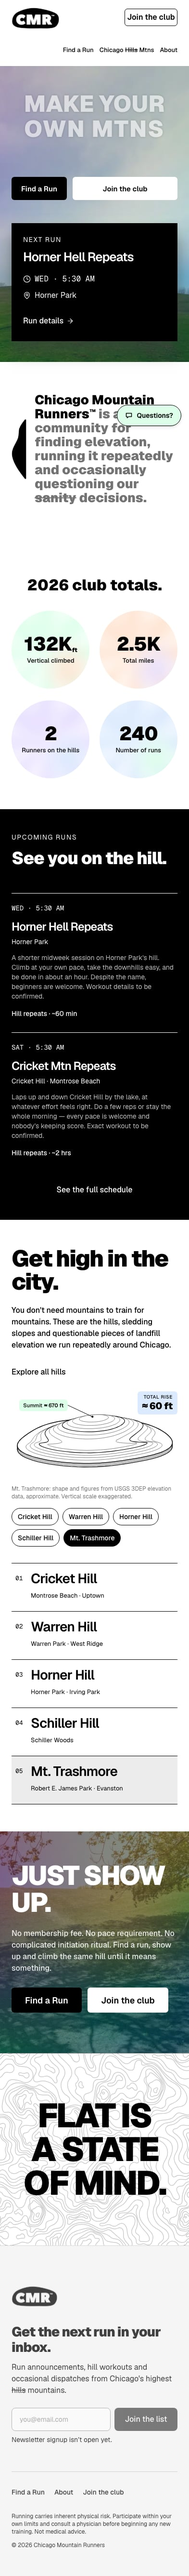
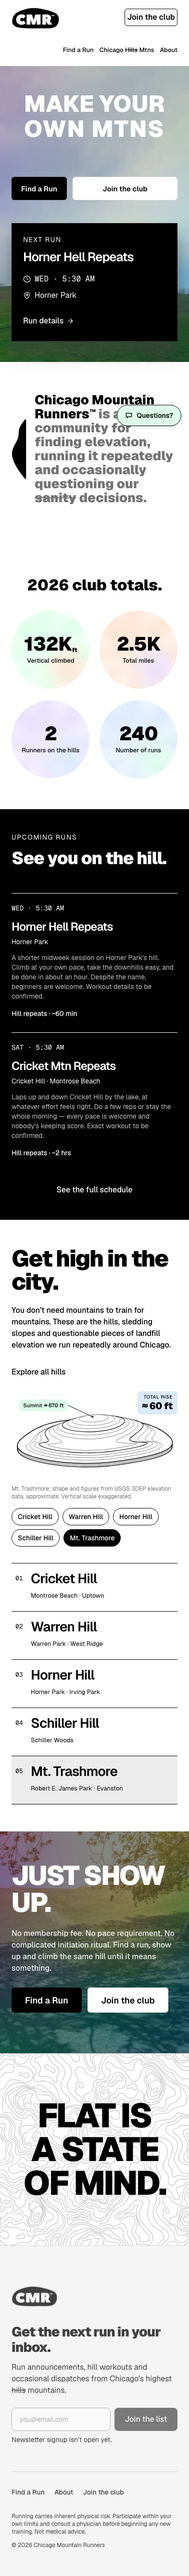
Hero headline: solid white, no halo
MAKE YOUR OWN MTNS goes from 60% white with a soft halo to 100% solid white,
matching JUST SHOW UP. Typography, position, responsive behavior and photo are
unchanged. Unit and browser tests assert the solid style; baselines, review
images and the Work Item are updated. Worst-region contrast over the pale sky
rises from 1.19-1.39:1 to 1.37-1.87:1, still below 3:1: it remains a documented
accepted exception and is not claimed to meet WCAG AA.

Changed region(s): [[0.1221, 0.0312, 0.855, 0.0625]]

diff --git a/src/components/home/HomeHero.tsx b/src/components/home/HomeHero.tsx
@@ -32,11 +32,13 @@ import { cn } from "@/lib/utils";
  *     matches line one's width on desktop).
  *
  * ACCEPTED ACCESSIBILITY EXCEPTION (Owner decision, PR #3, 2026-11-08): the
- * headline keeps Figma's ghosted 60% white, plus a soft halo. Its worst-region
- * contrast over the sky is about 1.2–1.3:1, below the 3:1 AA minimum for large
- * text. It is NOT WCAG AA compliant and is not claimed to be. A tested
- * alternative (75% over a headline band) reached ≥ 3.19:1 and is recorded in
- * .aiom/work/implement-cmr-homepage.md should the decision be revisited.
+ * headline is solid white (100%, like "JUST SHOW UP.") with no halo or shadow —
+ * Figma's ghosted 60% and the soft halo were removed in the final refinement. Its
+ * worst-region contrast over the pale sky is still below the 3:1 AA minimum for
+ * large text (see the Work Item for the measurements). It is NOT WCAG AA
+ * compliant and is not claimed to be. A tested alternative (75% over a headline
+ * band) reached ≥ 3.19:1 and is recorded in .aiom/work/implement-cmr-homepage.md
+ * should the decision be revisited.
  */
 export function HomeHero({ next, now }: { next: RunOccurrence | null; now: Date }) {
   const layout = fluidVars({
@@ -83,13 +85,7 @@ export function HomeHero({ next, now }: { next: RunOccurrence | null; now: Date 
         <h1
           id="hero-heading"
           style={heading}
-          className={cn(
-            FLUID_TYPE,
-            "text-center font-black opacity-60",
-            // Legibility halo (not in Figma): a soft shadow in the foreground token
-            // separates the ghosted 60% letters from pale sky. See Owner decision D6.
-            "[text-shadow:0_0_0.12em_color-mix(in_srgb,var(--foreground)_30%,transparent)]",
-          )}
+          className={cn(FLUID_TYPE, "text-center font-black")}
         >
           {/* The space keeps the accessible name "MAKE YOUR OWN MTNS" (blocks don't add one). */}
           <span className="block">MAKE YOUR</span>{" "}

diff --git a/tests/e2e/home.spec.ts b/tests/e2e/home.spec.ts
@@ -119,6 +119,18 @@ test.describe("structure and content", () => {
     await expect(runs(page).locator("time").first()).toHaveAttribute("datetime", /^\d{4}-\d{2}-\d{2}T\d{2}:\d{2}-0[56]:00$/);
   });
 
+  test("hero headline is solid white with no halo, like the Just show up heading", async ({ page }) => {
+    const style = (sel: string) =>
+      page.locator(sel).evaluate((el) => {
+        const c = getComputedStyle(el);
+        return { opacity: c.opacity, color: c.color, shadow: c.textShadow, weight: c.fontWeight };
+      });
+    const hero = await style("#hero-heading");
+    const jsu = await style("#just-show-up-heading");
+    expect(hero).toEqual({ opacity: "1", color: "rgb(255, 255, 255)", shadow: "none", weight: "900" });
+    expect(hero).toEqual(jsu);
+  });
+
   test("never requests Figma or other off-site assets", async ({ page }) => {
     const external: string[] = [];
     page.on("request", (r) => {
@@ -424,9 +436,10 @@ test.describe("accessibility", () => {
 
   /**
    * ACCEPTED ACCESSIBILITY EXCEPTIONS (Owner decision on PR #3, 2026-11-08).
-   * The Owner restored the approved ghosted hero headline (60% white with a soft
-   * halo) and the original Just show up treatment (30% shade, 90% white copy) and
-   * accepted their known contrast shortfall for this iteration. They do NOT meet
+   * The hero headline is solid white with no halo (final refinement, matching the
+   * "JUST SHOW UP." heading) over the pale sky, and Just show up keeps its original
+   * treatment (30% shade, 90% white copy). The Owner accepted their known contrast
+   * shortfall for this iteration. They do NOT meet
    * WCAG AA 1.4.3 in their worst region and are not claimed to. They are measured
    * and recorded on every run, but deliberately not asserted against a threshold
    * (thresholds are not weakened; the two elements are simply outside the gate).

diff --git a/tests/components/home/HomeHero.test.tsx b/tests/components/home/HomeHero.test.tsx
@@ -15,6 +15,13 @@ describe("HomeHero", () => {
     expect(screen.getAllByRole("heading", { level: 1 })).toHaveLength(1);
   });
 
+  it("sets the headline in solid white: no opacity and no halo or shadow", () => {
+    render(<HomeHero next={next} now={now} />);
+    const classes = screen.getByRole("heading", { level: 1 }).className.split(/\s+/);
+    expect(classes.filter((c) => /opacity|text-shadow|\[text-shadow/.test(c))).toEqual([]);
+    expect(classes).toEqual(expect.arrayContaining(["font-black", "text-center"])); // typography unchanged
+  });
+
   it("links the CTAs to the v1 routes", () => {
     render(<HomeHero next={next} now={now} />);
     expect(screen.getByRole("link", { name: "Find a Run" })).toHaveAttribute("href", "/calendar");

diff --git a/.aiom/work/implement-cmr-homepage.md b/.aiom/work/implement-cmr-homepage.md
@@ -21,12 +21,13 @@ validation_state: passed
 blocker_state: awaiting-owner-review
 current_responsibility: owner
 created_at: '2026-11-07T23:52:00.000Z'
-updated_at: '2026-11-08T22:00:00.000Z'
+updated_at: '2026-11-08T23:30:00.000Z'
 ---
 ## Status
 
-**Final targeted refinements (2026-11-08, after Round 2.1 was approved) implemented
-and validated on PR #3; awaiting Owner approval to merge.** See "Final refinements"
+**Final targeted refinements (2026-11-08, after Round 2.1 was approved, ending with
+the solid-white hero headline) implemented and validated on PR #3; awaiting Owner
+approval to merge.** See "Final refinements"
 first, then "Round 2.1" and "Round 2 refinement" below.
 PR #3 stays open; not merged; no production deployment (Vercel Preview only).
 Verified implementation head **`c2da050`**: GitHub CI `validate` and `browser`
@@ -54,8 +55,9 @@ the tested alternative should the decision be revisited.
 
 Round 2.1 was approved. A last targeted pass on PR #3, changing nothing else (the
 natural hero photograph, hill geometry, layout and interactions are preserved): one
-label for every Join CTA, no borders on the filled buttons, and black-and-white hill
-graphics. Not merged, not deployed to production.
+label for every Join CTA, no borders on the filled buttons, black-and-white hill
+graphics, and (last) a solid-white hero headline. Not merged, not deployed to
+production.
 
 ### As built
 
@@ -64,22 +66,28 @@ graphics. Not merged, not deployed to production.
 | F1 | All four Join CTAs read "Join the club" and go to `/join` | Header (already), hero ("Become a Mtn Runner" → "Join the club"), Just show up ("Join Us" → "Join the club"), footer link (`footerNav`, "Join Us" → "Join the club"). Unrelated labels untouched; `/join` page heading is unchanged. A unit test renders all four and checks label and `href`; a browser test checks them in the live page (header, hero, Just show up, footer, in that order) and that no "Join Us" / "Become a Mtn Runner" link remains |
 | F2 | No borders on the filled buttons; keep the inverse hover | `CtaLink`: the `border` class moved from the base into the `outline` variant only. Primary (black ↔ white) and secondary (white ↔ black) have no border at rest or on hover; the header's outline CTA keeps its intentional 1px default border. Padding restored to the pre-border values (`px-5 md:px-7`, `px-7`), so button sizes are as before; heights are caller-set and unchanged. Focus ring (3px + 2px gap), active states, contrast (solid on solid, 21:1) and reduced motion unchanged |
 | F3 | Hills in black and white only; keep geometry, tags, legends, interactions, "Vertical scale exaggerated." | `render-profiles.mjs`: every fill is `#fff`, every line `#000` (SVGs contain only those two colors; before: eight grays plus near-black). Surface, bands and slab are white; contours and strata black, minor lines 0.5px and every fourth 1.15px. Geometry, anchors and data are byte-identical (same generator output); pastel tags, Total rise legend, hover/focus/touch behavior and the caption sentence untouched. The lower section's static topography is untouched |
+| F4 | Hero headline from 60% white to solid white, no halo (as "JUST SHOW UP."); change nothing else | `HomeHero` h1: `opacity-60` and the `text-shadow` halo removed; classes are now `FLUID_TYPE text-center font-black`. Typography, position, responsive behavior, photograph and everything else untouched. A unit test asserts no opacity or shadow class; a browser test asserts the computed style (opacity 1, white, no shadow, weight 900) equals the Just show up heading's |
 
-### Delivery status
-
-Verified implementation head **`161a274`**: GitHub CI `validate` and `browser` pass
-(run 42516204755); Vercel deployment `6nFQ2JmBQK85jqsZZgfW3bSDLvrv` Ready as a
-**Preview** at https://cmr-site-git-feat-cmr-homepage-mikewhitaker-projects.vercel.app
-(Vercel SSO-protected). PR #3 open, not merged; no production deployment. Commits
-after it only update this record.
+**F4 contrast (method and thresholds unchanged; macOS Chromium).** Hero headline worst-region
+contrast over the pale sky, 320–1920px: 1.87 (320) · 1.73 (393) · 1.63 (600–900, incl. 768) · 1.45 (1024) ·
+1.40 (1180–1732, incl. 1440) · 1.37 (1920). Median 1.73–2.18. Solid white helps (was 1.19–1.39:1) but
+the sky is too pale for 3:1, so this remains an **accepted exception that does not meet WCAG AA 1.4.3
+and is not claimed to**. It is still measured and recorded on every run, not asserted. All other
+photo-text targets (CTAs ≈ 19–21:1, Just show up heading 3.54 / 3.80 / 3.67:1) are unchanged and asserted.
+The tested 75%-over-band alternative (≥ 3.19:1) remains in the record below.
 
 ### Validation (2026-11-08, macOS, Chromium)
 
 - `npm run lint`, `tsc --noEmit`, `npm run tokens:check`, `npm run build`: pass.
-- Vitest: **221 tests, 16 files, pass** (updated labels; filled buttons asserted border-free, outline asserted 1px; new four-CTA test).
-- Playwright (393 / 768 / 1440): **133 pass, 8 visual skipped**. Hero, header and Figma geometry checks unchanged and passing (button positions and heights). Visual: **12 pass** after regenerating the affected baselines (homepage ×3, footer ×4).
-- Contrast: CTAs ≈ 19–21:1; accepted exceptions unchanged and not claimed compliant. Hover states are solid black on white or white on black.
+- Vitest: **222 tests, 16 files, pass** (updated labels; filled buttons asserted border-free, outline asserted 1px; four-CTA test; solid-white headline).
+- Playwright (393 / 768 / 1440): **136 pass, 8 visual skipped**. Hero, header and Figma geometry checks unchanged and passing (button positions and heights). Visual: **12 pass** after regenerating the affected baselines (homepage ×3 for the headline, plus footer ×4 for the earlier label change).
+- Contrast: CTAs ≈ 19–21:1. Accepted exceptions not claimed compliant: hero headline now 1.37–1.87:1 (solid white; was 1.19–1.39:1), Just show up copy unchanged at 3.56–3.74:1. Hover states are solid black on white or white on black.
 - Formspree still never contacted by tests.
+
+### Delivery status
+
+(Recorded below once CI and the Vercel Preview have been verified for the final commit.)
+
 
 ## Round 2.1 final visual refinements (2026-11-08)
 
@@ -445,7 +453,7 @@ Shipped state and measured worst-region contrast (method below; macOS Chromium,
 
 | Text | Shipped treatment | Needs | Measured worst region | Status |
 |---|---|---|---|---|
-| **Hero headline "MAKE YOUR OWN MTNS"** | 60% white (as Figma) with the soft halo; no band | 3.0 (large text) | **1.19–1.36:1** (1.32 / 1.23 / 1.25 / 1.29 at 393 / 768 / 1440 / 1732) | **Exception. Does not meet WCAG AA 1.4.3.** |
+| **Hero headline "MAKE YOUR OWN MTNS"** | **Final refinement: solid white (100%), no halo or shadow, as "JUST SHOW UP."** (was 60% with a soft halo) | 3.0 (large text) | **1.37–1.87:1** across 320–1920px (1.73 / 1.63 / 1.40 / 1.40 at 393 / 768 / 1440 / 1732). Was 1.19–1.39:1 | **Exception. Still does not meet WCAG AA 1.4.3** (better, not compliant) |
 | **Just show up body copy** | 90% white over a 30% shade | 4.5 | **3.55–4.04:1** (4.04 / 3.66 / 3.56 / 3.76) | **Exception. Does not meet WCAG AA 1.4.3.** |
 | Just show up heading | 30% shade | 3.0 | 3.57–3.93:1 | Meets 3:1 (asserted) |
 | Hero and Just show up CTAs | existing treatments (hero outline on 50% black fill) | 4.5 | ≥ 5.27:1 (outline), ≥ 11.67:1 (others) | Meets (asserted) |

diff --git a/docs/review/cmr-homepage/README.md b/docs/review/cmr-homepage/README.md
@@ -41,7 +41,7 @@ How to read the overlays:
   vector hill profiles; vector topography; gray footer with a tone-on-tone logo;
   the floating Questions button; no visible sample/provisional badges.
 - **Accepted exceptions, not WCAG AA compliant (unchanged):** the hero headline
-  (60% with halo, ≈ 1.2–1.3:1) and the Just show up body copy (≈ 3.6–3.8:1) —
+  (solid white, no halo, ≈ 1.4–1.9:1) and the Just show up body copy (≈ 3.6–3.8:1) —
   Owner decision, 2026-11-08.
 - **Earlier reviewed deviations** are listed in `.aiom/work/implement-cmr-homepage.md`
   ("Design-to-code deviations").
